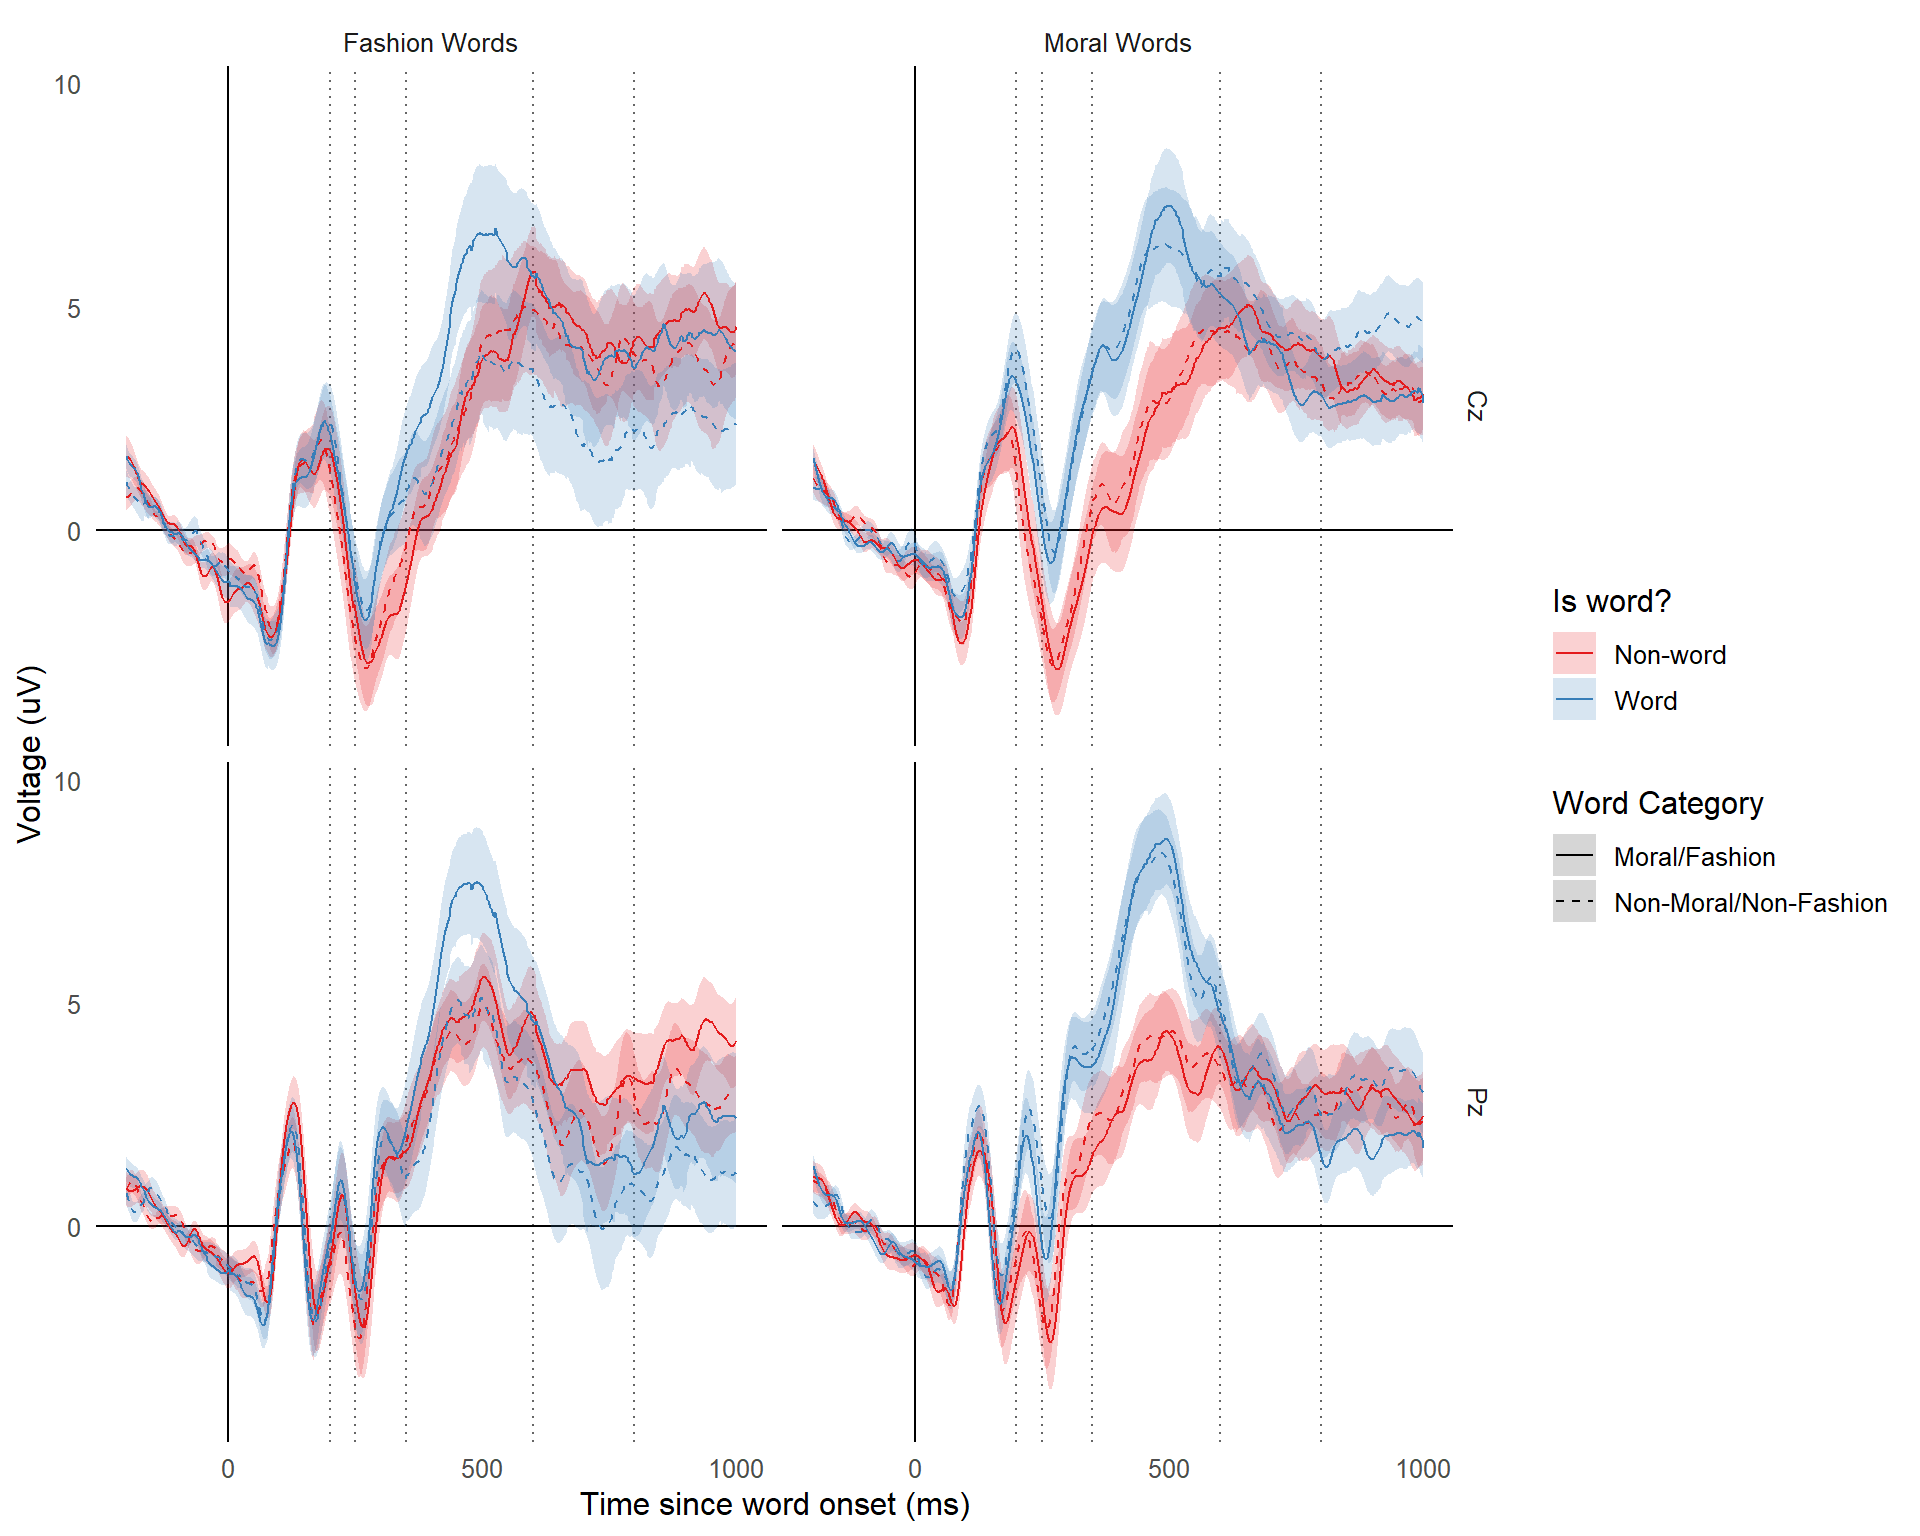
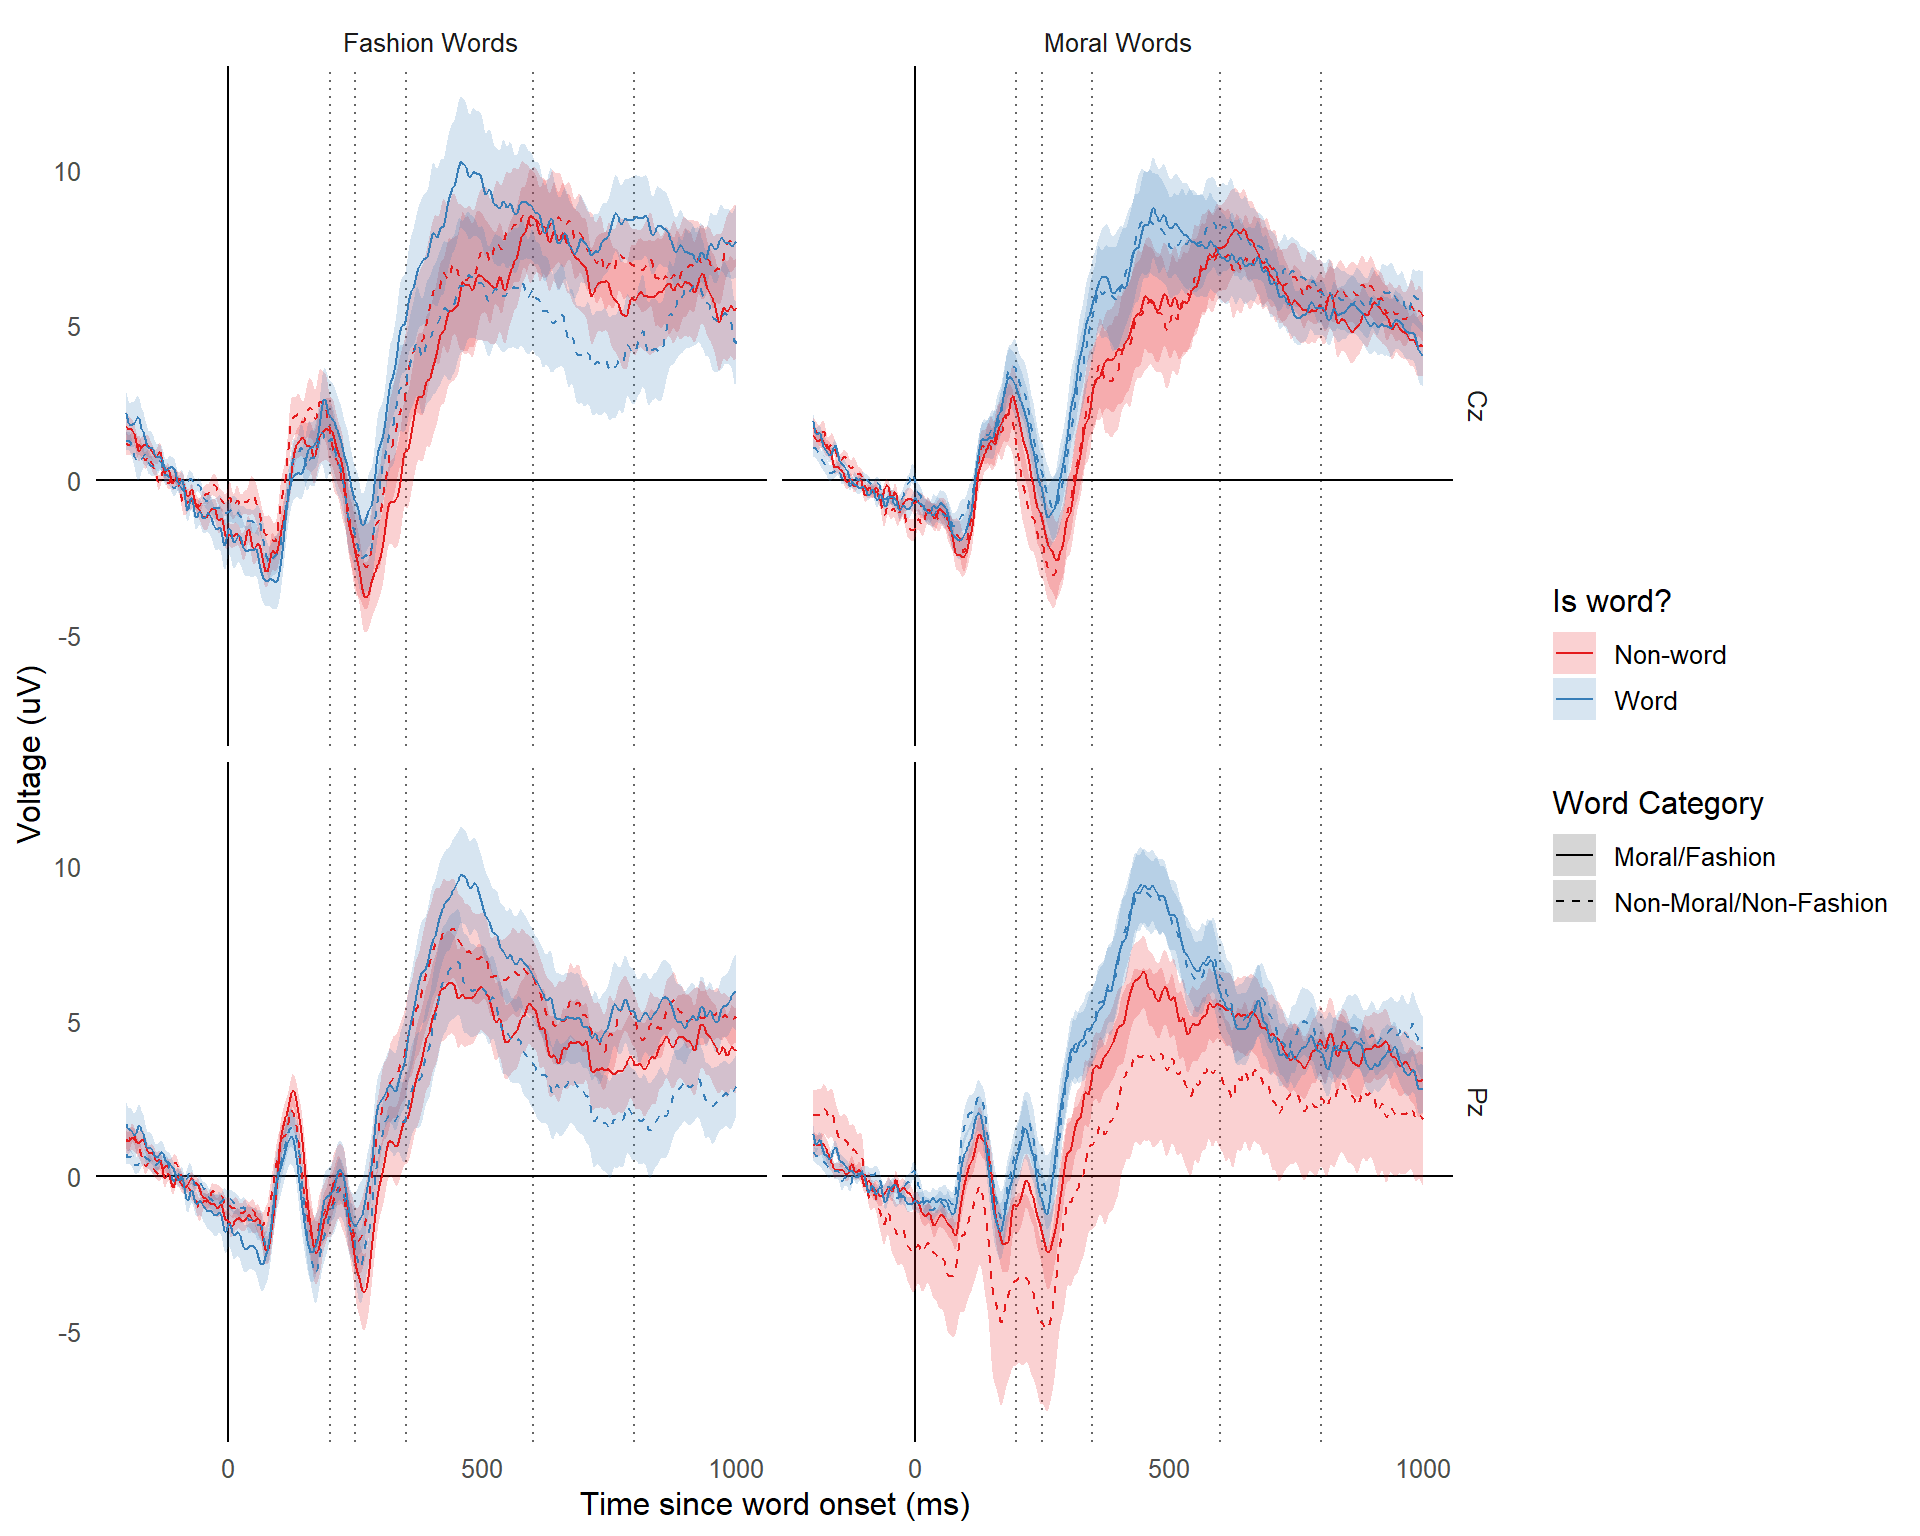
automate the eeg quality exclusion

Changed region(s): [[0.0625, 0.0625, 0.75, 0.4688], [0.0625, 0.5, 0.75, 0.9062]]

diff --git a/manuscript.html b/manuscript.html
@@ -114,14 +114,14 @@ ul.task-list li input[type="checkbox"] {
 <section id="words-vs.-non-words" class="level5">
 <h5 class="anchored" data-anchor-id="words-vs.-non-words">Words vs.&nbsp;Non-Words</h5>
 <p>Following Gantman et al.&nbsp;(2020), we looked for word vs.&nbsp;non-word ERP effects at each time window at electrode Pz.</p>
-<p>In the moral condition, words elicited a more positive ERP in the P2 window (<span class="math inline">\(\beta\)</span> = 2.136, <em>SE</em> = 0.365, <em>z</em> = 5.847, <em>p</em> = 0.000000005006606), N2 window (<span class="math inline">\(\beta\)</span> = 2.302, <em>SE</em> = 0.449, <em>z</em> = 5.127, <em>p</em> = 0.0000002944552), and P3 window (<span class="math inline">\(\beta\)</span> = 3.129, <em>SE</em> = 0.45, <em>z</em> = 6.95, <em>p</em> = 0.000000000003662404). There was no significant effect in the LPP window (<span class="math inline">\(\beta\)</span> = 0.158, <em>SE</em> = 0.489, <em>z</em> = 0.324, <em>p</em> = 0.7460597).</p>
-<p>In the fashion condition, there was no significant difference in any of the time windows; P2 window (<span class="math inline">\(\beta\)</span> = 0.712, <em>SE</em> = 0.369, <em>z</em> = 1.933, <em>p</em> = 0.05325175), N2 window (<span class="math inline">\(\beta\)</span> = 0.756, <em>SE</em> = 0.541, <em>z</em> = 1.398, <em>p</em> = 0.162149), P3 window (<span class="math inline">\(\beta\)</span> = 1.019, <em>SE</em> = 0.679, <em>z</em> = 1.501, <em>p</em> = 0.1334695), and LPP window (<span class="math inline">\(\beta\)</span> = -0.919, <em>SE</em> = 0.658, <em>z</em> = -1.397, <em>p</em> = 0.1625388).</p>
+<p>In the moral condition, words elicited a more positive ERP in the P2 window (<span class="math inline">\(\beta\)</span> = 3.089, <em>SE</em> = 1.553, <em>z</em> = 1.989, <em>p</em> = 0.04665376), N2 window (<span class="math inline">\(\beta\)</span> = 3.175, <em>SE</em> = 1.51, <em>z</em> = 2.102, <em>p</em> = 0.03555232), and P3 window (<span class="math inline">\(\beta\)</span> = 3.482, <em>SE</em> = 1.552, <em>z</em> = 2.244, <em>p</em> = 0.02484422). There was no significant effect in the LPP window (<span class="math inline">\(\beta\)</span> = 1.375, <em>SE</em> = 1.412, <em>z</em> = 0.974, <em>p</em> = 0.3301635).</p>
+<p>In the fashion condition, there was no significant difference in any of the time windows; P2 window (<span class="math inline">\(\beta\)</span> = 0.125, <em>SE</em> = 0.408, <em>z</em> = 0.306, <em>p</em> = 0.7593946), N2 window (<span class="math inline">\(\beta\)</span> = 0.643, <em>SE</em> = 0.484, <em>z</em> = 1.328, <em>p</em> = 0.1840393), P3 window (<span class="math inline">\(\beta\)</span> = 0.653, <em>SE</em> = 0.585, <em>z</em> = 1.115, <em>p</em> = 0.2648422), and LPP window (<span class="math inline">\(\beta\)</span> = -0.546, <em>SE</em> = 0.623, <em>z</em> = -0.877, <em>p</em> = 0.3804341).</p>
 </section>
 <section id="pop-out-effects" class="level5">
 <h5 class="anchored" data-anchor-id="pop-out-effects">Pop-out effects</h5>
 <p>Also following Gantman et al.&nbsp;(2020), we looked for ERP differences related to the category vs.&nbsp;non-category distinction in all four time windows at electrode Cz.</p>
-<p>In the moral condition, there was a significant difference between moral and non-moral words in the P2 window (<span class="math inline">\(\beta\)</span> = 0.791, <em>SE</em> = 0.355, <em>z</em> = 2.225, <em>p</em> = 0.02606441), but this difference was in the opposite direction predicted by Gantman et al.&nbsp;(2020). There were no significant differences between moral and non-moral words in the N2 window (<span class="math inline">\(\beta\)</span> = 0.107, <em>SE</em> = 0.434, <em>z</em> = 0.246, <em>p</em> = 0.8057305), P3 window (<span class="math inline">\(\beta\)</span> = -0.015, <em>SE</em> = 0.632, <em>z</em> = -0.023, <em>p</em> = 0.9812689), and the LPP window (<span class="math inline">\(\beta\)</span> = 0.943, <em>SE</em> = 0.601, <em>z</em> = 1.57, <em>p</em> = 0.1164885).</p>
-<p>In the fashion condition, there fashion words elicited a more positive ERP than non-fashion words in the P3 window (<span class="math inline">\(\beta\)</span> = -2.244, <em>SE</em> = 0.64, <em>z</em> = -3.505, <em>p</em> = 0.0004573607) and LPP window (<span class="math inline">\(\beta\)</span> = -1.941, <em>SE</em> = 0.928, <em>z</em> = -2.091, <em>p</em> = 0.03651921). There was no significant difference in the P2 window (<span class="math inline">\(\beta\)</span> = 0.131, <em>SE</em> = 0.529, <em>z</em> = 0.248, <em>p</em> = 0.8044993) and N2 window (<span class="math inline">\(\beta\)</span> = -0.161, <em>SE</em> = 0.548, <em>z</em> = -0.293, <em>p</em> = 0.7696241).</p>
+<p>In the moral condition, there was a significant difference between moral and non-moral words in the P2 window (<span class="math inline">\(\beta\)</span> = 0.524, <em>SE</em> = 0.388, <em>z</em> = 1.35, <em>p</em> = 0.1771089), but this difference was in the opposite direction predicted by Gantman et al.&nbsp;(2020). There were no significant differences between moral and non-moral words in the N2 window (<span class="math inline">\(\beta\)</span> = -0.29, <em>SE</em> = 0.361, <em>z</em> = -0.803, <em>p</em> = 0.422013), P3 window (<span class="math inline">\(\beta\)</span> = -0.069, <em>SE</em> = 0.461, <em>z</em> = -0.15, <em>p</em> = 0.8808209), and the LPP window (<span class="math inline">\(\beta\)</span> = 0.812, <em>SE</em> = 0.451, <em>z</em> = 1.799, <em>p</em> = 0.07194879).</p>
+<p>In the fashion condition, there fashion words elicited a more positive ERP than non-fashion words in the P3 window (<span class="math inline">\(\beta\)</span> = -2.918, <em>SE</em> = 0.728, <em>z</em> = -4.008, <em>p</em> = 0.00006116014) and LPP window (<span class="math inline">\(\beta\)</span> = -3.226, <em>SE</em> = 1.07, <em>z</em> = -3.014, <em>p</em> = 0.002577027). There was no significant difference in the P2 window (<span class="math inline">\(\beta\)</span> = -1.029, <em>SE</em> = 1.065, <em>z</em> = -0.966, <em>p</em> = 0.3339002) and N2 window (<span class="math inline">\(\beta\)</span> = -1.4, <em>SE</em> = 0.607, <em>z</em> = -2.306, <em>p</em> = 0.02110021).</p>
 </section>
 </section>
 </section>
@@ -132,7 +132,7 @@ ul.task-list li input[type="checkbox"] {
 <h3 class="anchored" data-anchor-id="methods-1">Methods</h3>
 <section id="participants-1" class="level4">
 <h4 class="anchored" data-anchor-id="participants-1">Participants</h4>
-<p>10 subjects participated in the study. After applying the exclusion criteria, 9 subjects remain. 1 subjects were excluded for receiving fashion words twice due to a technical error, 0 subjects were excluded for having poor EEG recordings, 0 subjects were excluded for having a non-response rate greater than 50%, and 0 subjects were excluded for having a non-word response rate greater than 90%.</p>
+<p>11 subjects participated in the study. After applying the exclusion criteria, 10 subjects remain. 1 subjects were excluded for receiving fashion words twice due to a technical error, 0 subjects were excluded for having poor EEG recordings, 0 subjects were excluded for having a non-response rate greater than 50%, and 0 subjects were excluded for having a non-word response rate greater than 90%.</p>
 </section>
 </section>
 <section id="results-1" class="level3">
